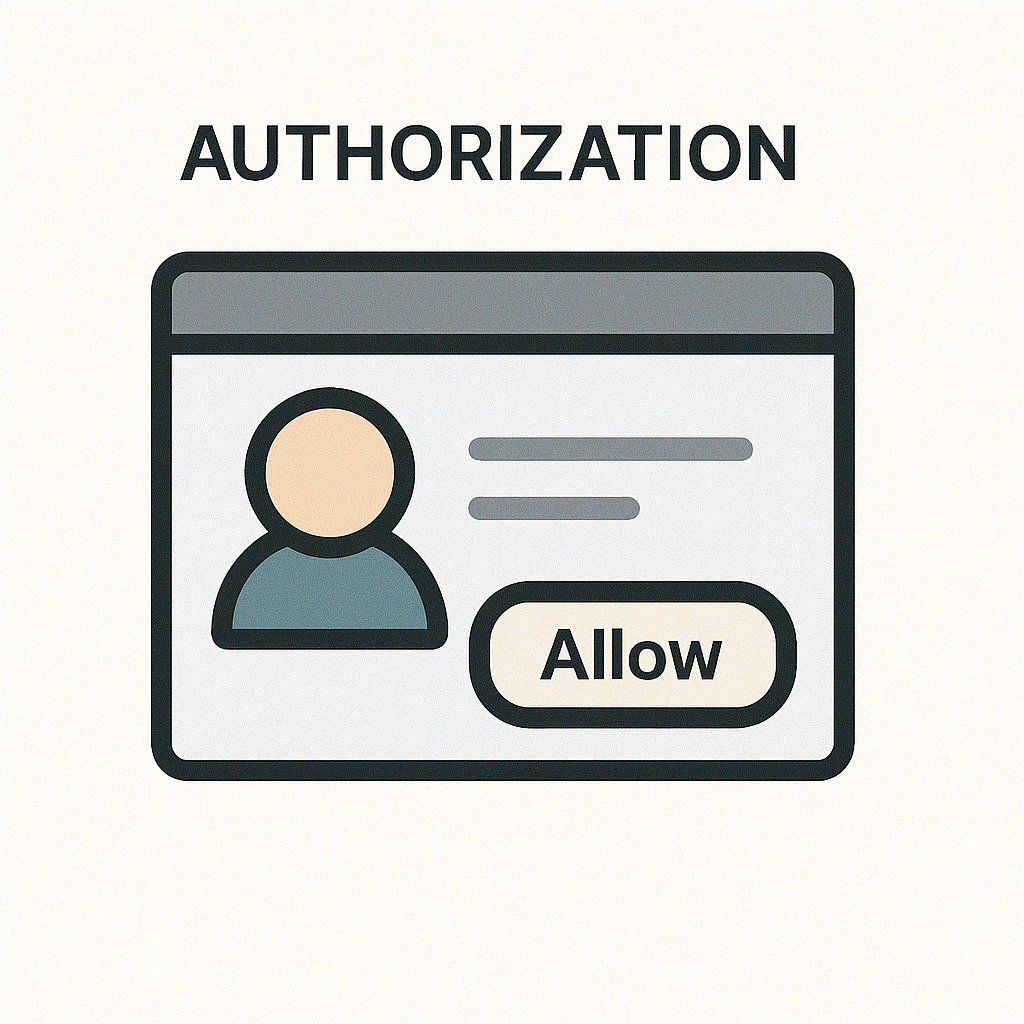
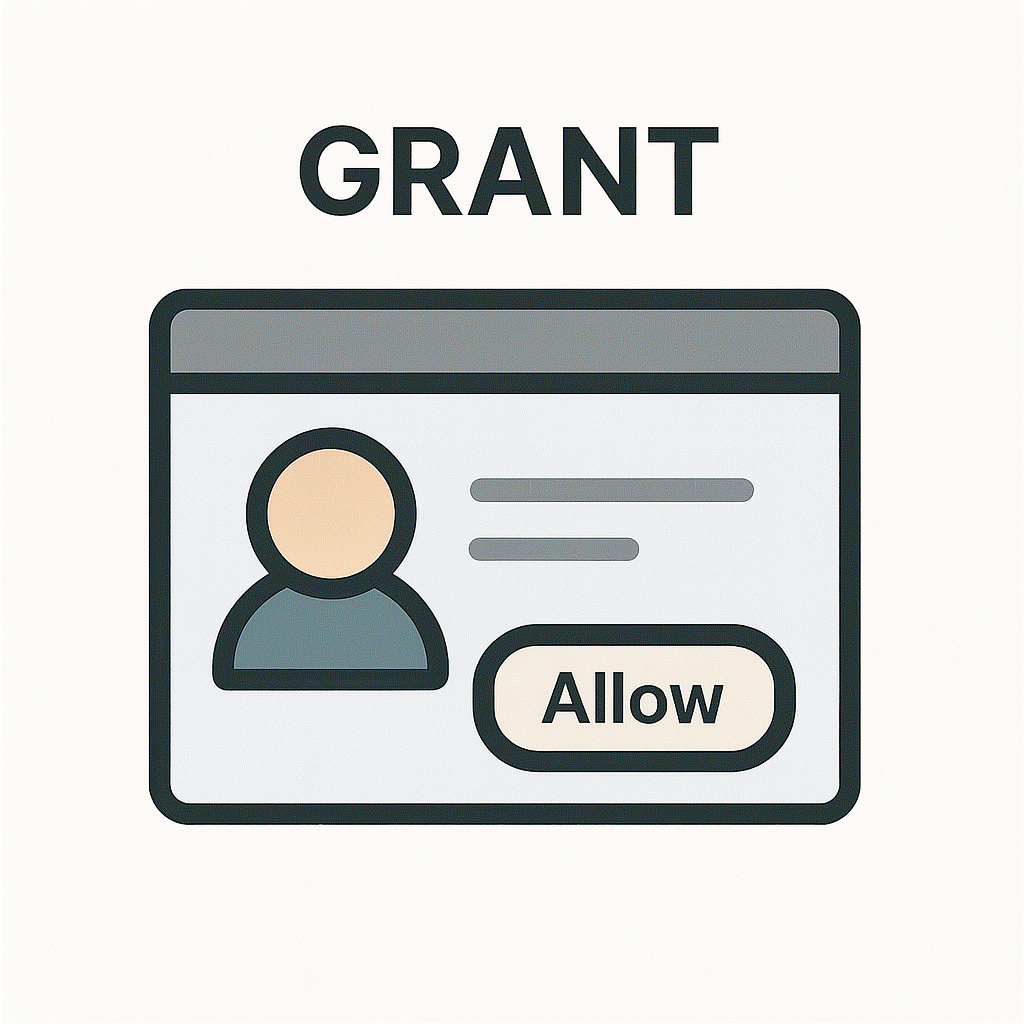
fileneamse edited

Changed region(s): [[0.125, 0.0938, 0.8438, 0.8125]]

diff --git a/src/content/blog/oauth2-basics-07-access-token-issue.md b/src/content/blog/oauth2-basics-07-access-token-issue.md
@@ -2,8 +2,9 @@
 title: OAuth 2.0 Basics – 6. Access Token Issue
 description: OAuth 2.0 Basics – 6. Access Token Issue.
 pubDate: June 27 2026
-heroImage: ../../assets/oauth2-access-token.jpg
+heroImage: ../../assets/oauth2-access-token2.png
 ---
+![oauth2-access-token](../../assets/oauth2-access-token.jpg)
 
 1. R.S의 승인이 끝나고 access_token을 발급하기 전에, 코드가 재사용되서 제 3자가 토큰을 무단으로 발급받는것을 방지하기위해 먼저 C와 R.S가 가지고 있는 authorization_code: 3을 지운다. 
 

diff --git a/src/content/blog/oauth2-basics-06-rs-consent-step.md b/src/content/blog/oauth2-basics-06-rs-consent-step.md
@@ -2,8 +2,9 @@
 title: OAuth 2.0 Basics - 5. R.S's consent step
 description: OAuth 2.0 Basics - 5. R.S's consent step.
 pubDate: June 27 2026
-heroImage: ../../assets/oauth2-rs-consent-step.jpg
+heroImage: ../../assets/oauth2-ro-grant.png
 ---
+![oauth2-rs-grant](../../assets/oauth2-rs-grant.png)
 
 1. R.O 의 승인이 끝났기 때문에, authorization_code: 3 을 발급한다.
 

diff --git a/src/content/blog/oauth2-basics-08-refresh-token.md b/src/content/blog/oauth2-basics-08-refresh-token.md
@@ -4,7 +4,6 @@ description: OAuth 2.0 Basics – 7. Refresh Token
 pubDate: June 27 2026
 heroImage: ../../assets/oauth2-refresh-token.png
 ---
-
 ```textile
   +--------+                                           +---------------+
   |        |--(A)------- Authorization Grant --------->|               |
